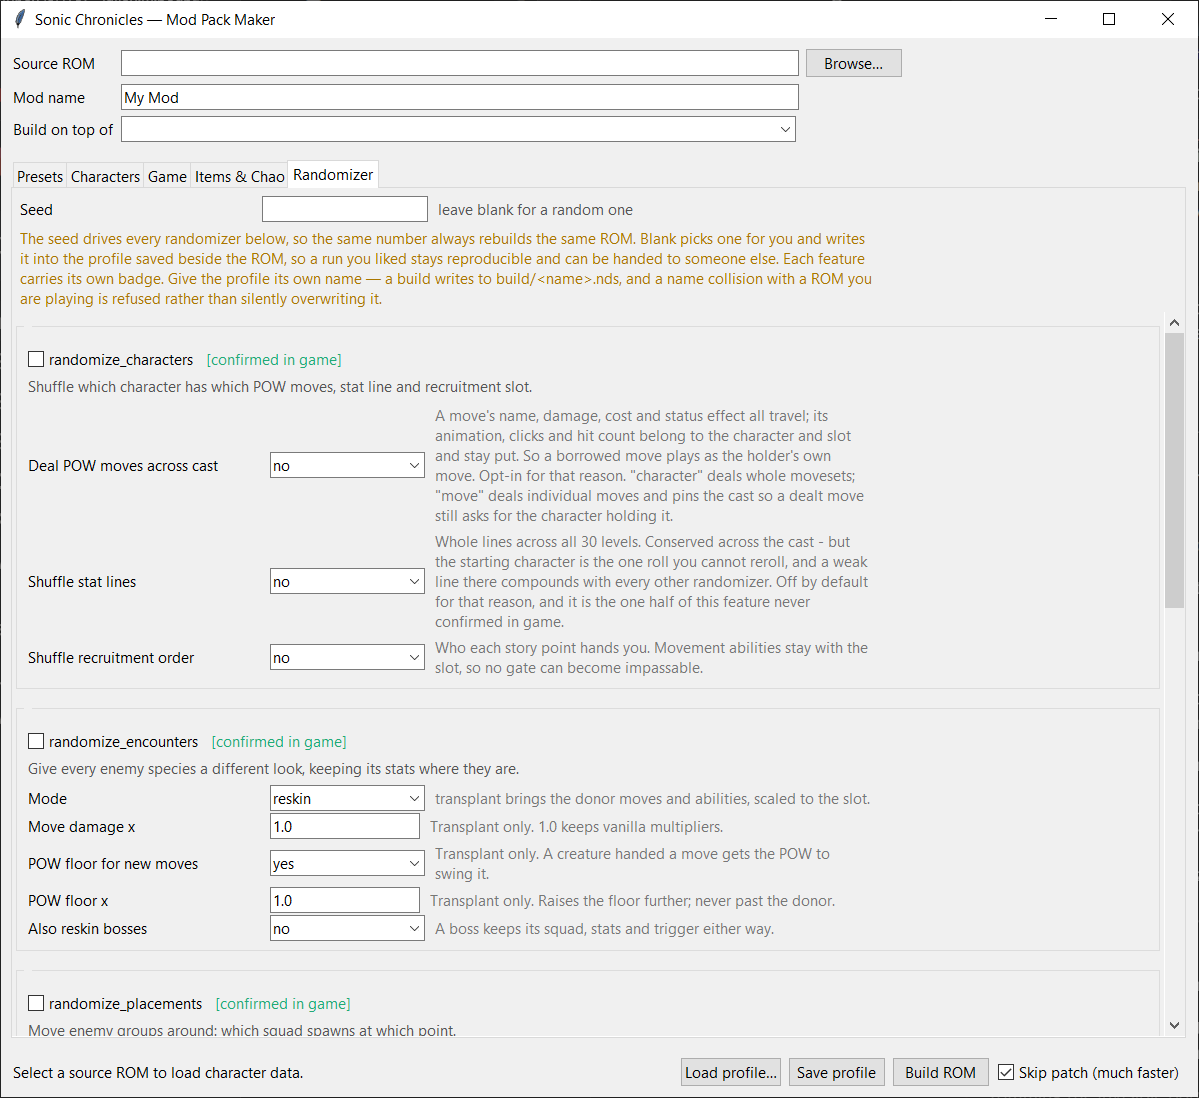
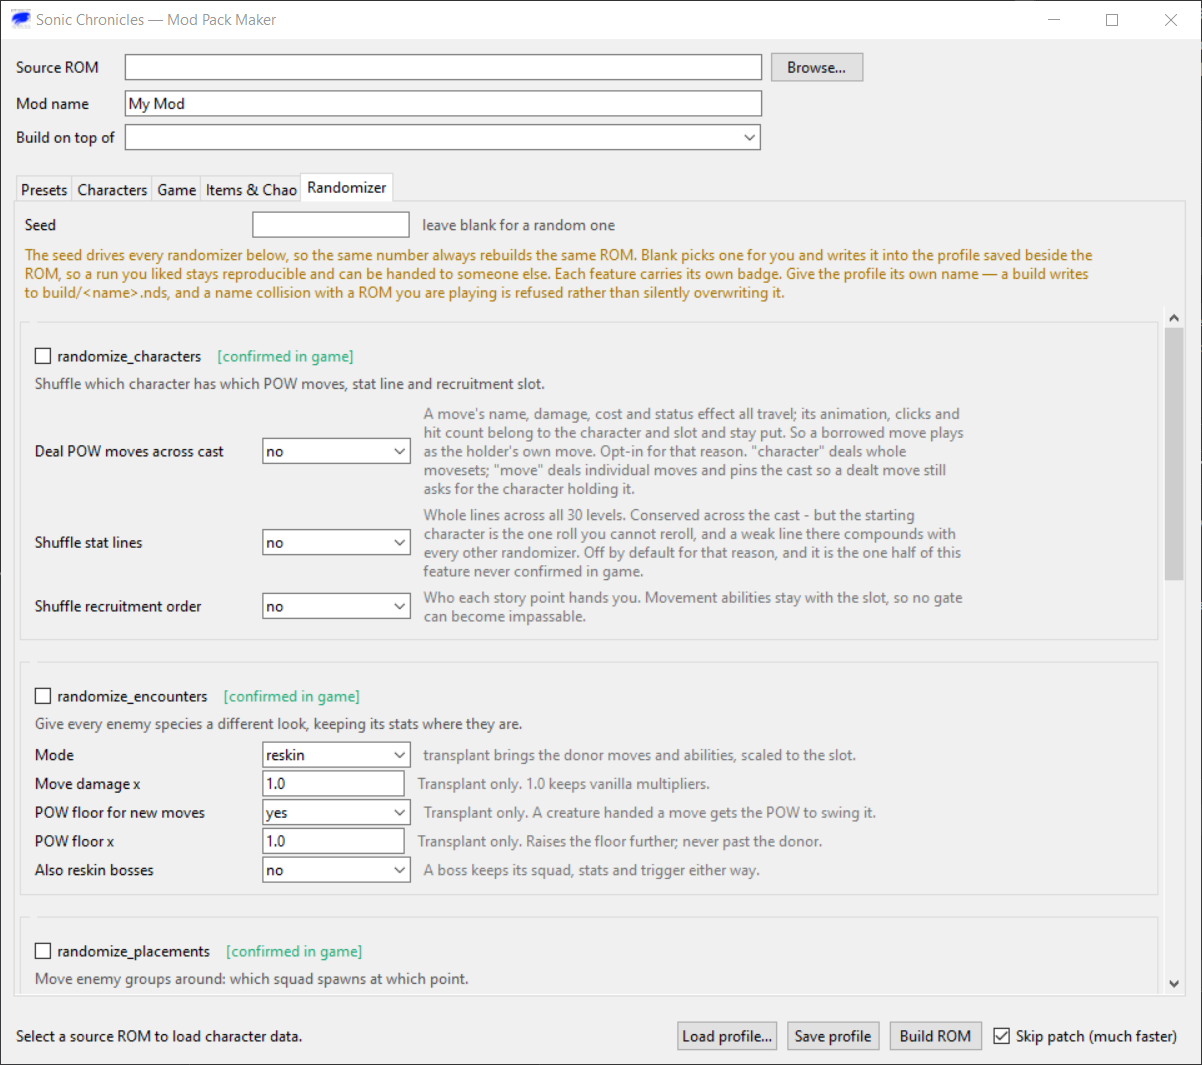
Launch the GUI without a console window
Running from source went through `py`, which is console Python, so the app came with
a black terminal attached - and closing that terminal killed the app. The release
build was already --windowed; only the from-source path had this.

ModPackMaker.bat now prefers pyw/pythonw, the windowed launchers, and uses `start` so
cmd's own window closes immediately instead of sitting there for the life of the app.
The console launchers stay as a fallback.

That trade has to be paid for: windowed Python has nowhere to print a traceback, so a
startup failure would have been a window that silently never appeared. main() now
catches anything thrown before mainloop and puts it in a dialog, after writing it to
stderr for the case where a console does exist.

Also passes CREATE_NO_WINDOW when the GUI shells out to the builder, so a build does
not pop the console the windowed launch just removed.

Screenshot: the user's own, which has the hand-drawn icon. The scripted capture showed
Tk's feather because _set_icon is called by main() and the script builds App directly;
tools/dev/screenshot_gui.py now calls it too.

diff --git a/tools/gui/modpack_maker.py b/tools/gui/modpack_maker.py
@@ -1146,6 +1146,11 @@ class App:
             cmd.append('--no-patch')
         return cmd
 
+    #: Windows only: keep the builder's console off screen. Without it, a GUI launched
+    #: from `pythonw` or a frozen --windowed build still pops a black console window for
+    #: the child process, which is the thing the windowed launch exists to avoid.
+    NO_WINDOW = 0x08000000 if sys.platform == 'win32' else 0
+
     def build(self):
         if not os.path.exists(self.rom.get()):
             messagebox.showerror('No ROM', 'Select a source ROM first.')
@@ -1159,7 +1164,8 @@ class App:
 
     def _run(self, cmd):
         try:
-            out = subprocess.run(cmd, cwd=ROOT, capture_output=True, text=True)
+            out = subprocess.run(cmd, cwd=ROOT, capture_output=True, text=True,
+                                 creationflags=self.NO_WINDOW)
         except Exception as e:
             self.root.after(0, lambda: self.status.set('Build failed: %s' % e))
             return
@@ -1223,14 +1229,38 @@ def main():
         import modbuild
         modbuild.main()
         return
-    root = tk.Tk()
+    # Launched windowed - from `pythonw`, or from a frozen --windowed build - there is
+    # no console for a traceback to land in, so a startup failure would just be a window
+    # that never appears. Put it in a dialog instead.
     try:
-        ttk.Style().theme_use('vista')
+        root = tk.Tk()
+    except Exception as e:
+        _startup_failure('Could not open a window.', e)
+        raise
+    try:
+        try:
+            ttk.Style().theme_use('vista')
+        except Exception:
+            pass
+        _set_icon(root)
+        App(root)
+    except Exception as e:
+        _startup_failure('The Mod Pack Maker could not start.', e)
+        raise
+    root.mainloop()
+
+
+def _startup_failure(headline, exc):
+    """Report a failure that happens before there is a window to report it in."""
+    import traceback
+    detail = ''.join(traceback.format_exception(type(exc), exc, exc.__traceback__))
+    sys.stderr.write(detail)                      # still useful when a console exists
+    try:
+        from tkinter import messagebox
+        messagebox.showerror('Mod Pack Maker',
+                             headline + chr(10) * 2 + detail[-1500:])
     except Exception:
         pass
-    _set_icon(root)
-    App(root)
-    root.mainloop()
 
 
 if __name__ == '__main__':

diff --git a/tools/dev/screenshot_gui.py b/tools/dev/screenshot_gui.py
@@ -27,6 +27,13 @@ import modpack_maker as M
 from PIL import ImageGrab
 
 root = tk.Tk()
+try:
+    M.ttk.Style().theme_use('vista')
+except Exception:
+    pass
+# main() does this, and building App directly skips it - which is why the first
+# scripted captures showed Tk's feather where the app shows the hand-drawn icon.
+M._set_icon(root)
 app = M.App(root)
 root.geometry('1197x1059+80+30')
 tab = os.environ.get('SHOT_TAB', 'random')
